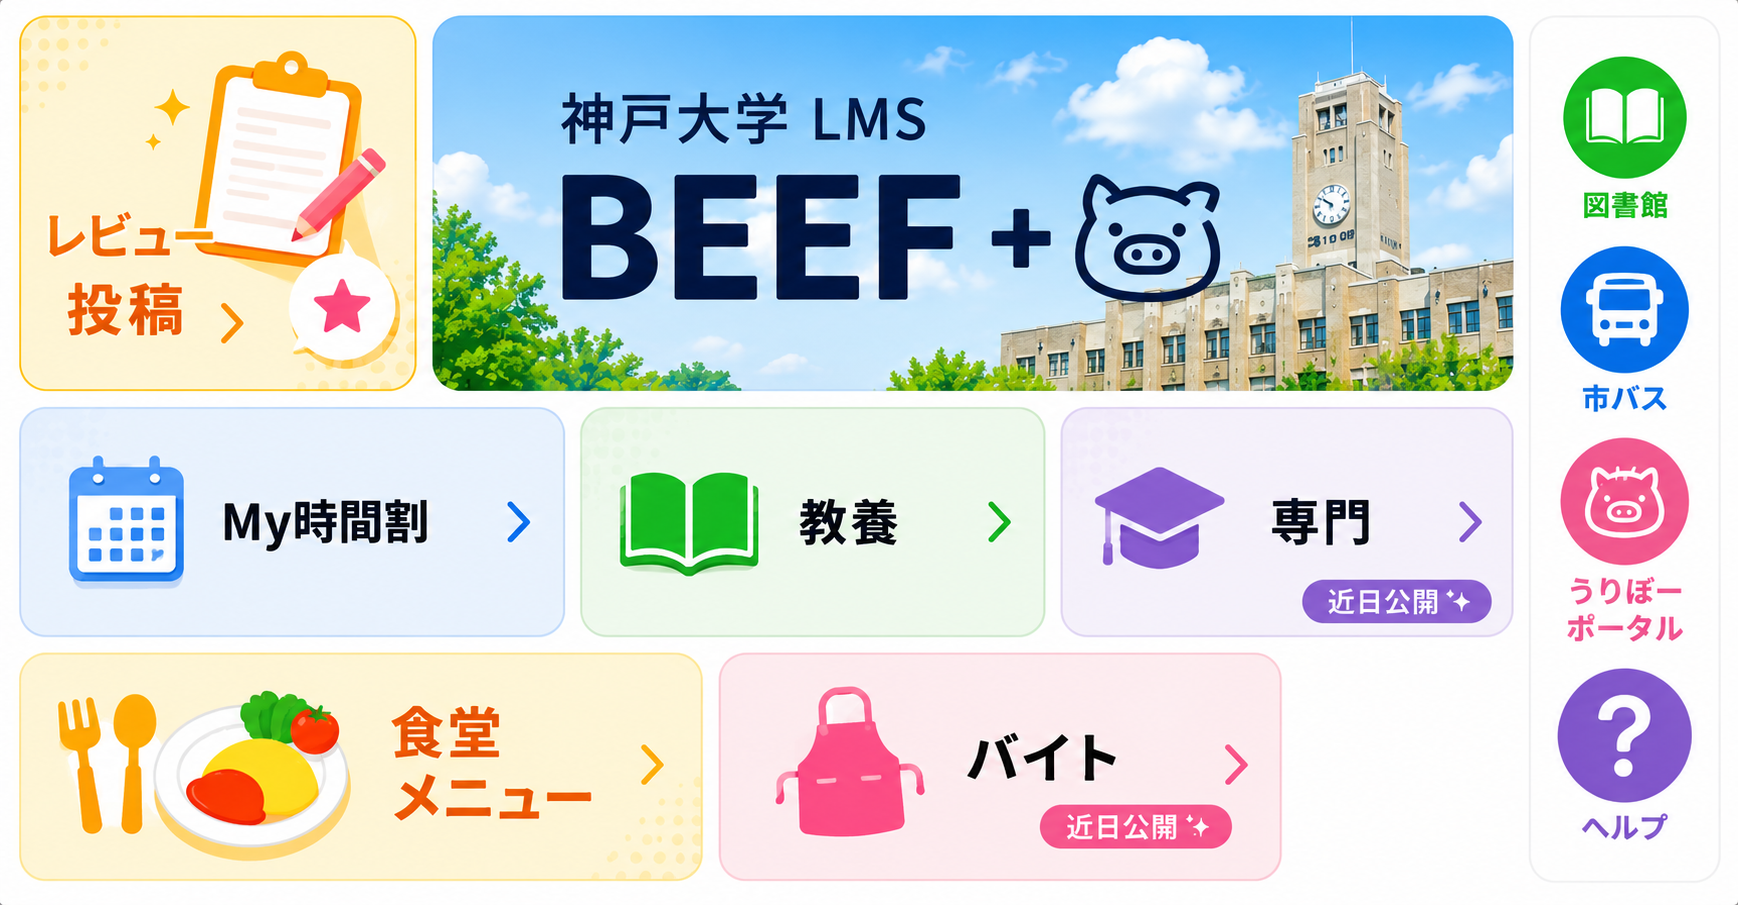
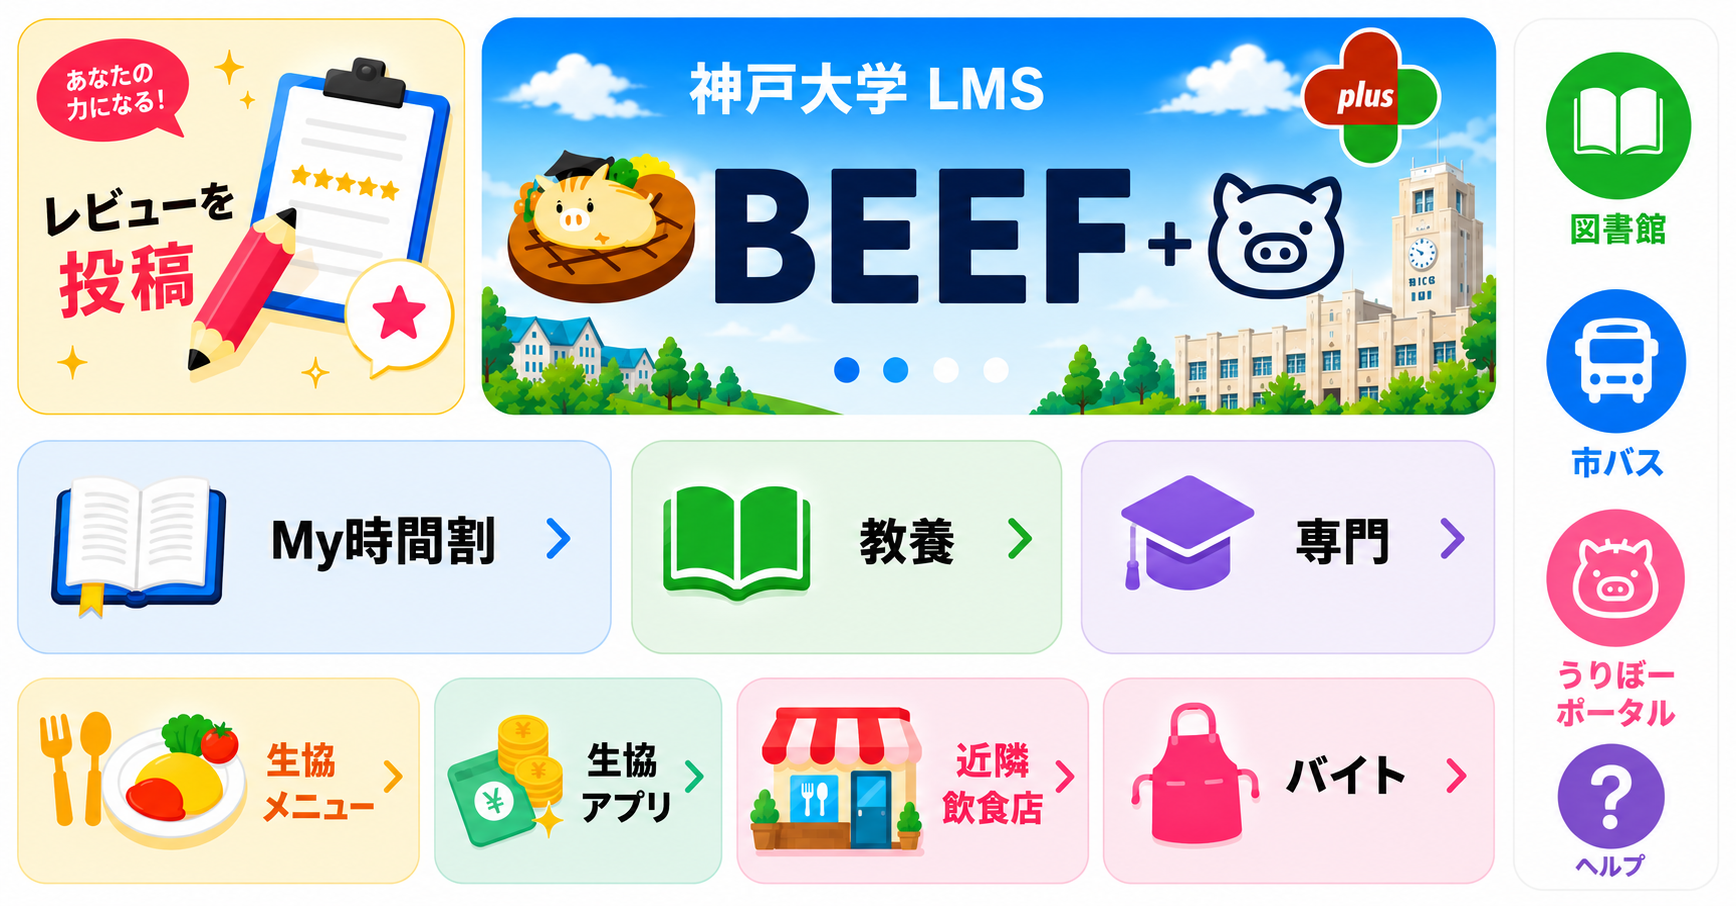
リッチメニューを7.14版デザインに更新し、生協メニューを4分割へ拡張
生協メニュー/生協アプリ/近隣飲食店/バイトの4ボタンに再編。生協アプリは既存の/coop中継ページへ、近隣飲食店は新規の準備中メッセージへリンクする。座標は新画像(1736x906)から実測し直した。

diff --git a/programing files/setup_richmenu.py b/programing files/setup_richmenu.py
@@ -57,21 +57,23 @@ from linebot.v3.messaging import (
 )
 
 # ── 画像サイズ（元画像の比率をそのまま使用）──────────────────────────────────
-W, H = 1738, 905
+W, H = 1736, 906
 
-# ── レイアウト座標（元画像 1738×905 基準、ピクセル実測値）──────────────────────
-SIDE_X  = 1514   # 右サイドバー左端（x=1514 で白帯開始）
-ROW2_Y  = 399    # Row1/2 境界（y=391-406 白帯の中心）
-ROW3_Y  = 645    # Row2/3 境界（y=638-651 白帯の中心）
-REV_W   = 424    # レビュー投稿 右端（x=418-431 白帯の中心）
-COL2_X  = 518    # My時間割/教養 境界（Row2 輝度谷 x=507-530 の中心）
-COL3_X  = 1000   # 教養/専門 境界（Row2 輝度谷 x=988-1011 の中心）
-COL3B_X = 757    # 食堂/バイト 境界（SIDE_X // 2）
+# ── レイアウト座標（元画像 1736×906 基準、リッチメニュー(7.14).png ピクセル実測値）──
+SIDE_X  = 1514   # 右サイドバー左端
+ROW2_Y  = 427    # Row1/2 境界
+ROW3_Y  = 665    # Row2/3 境界
+REV_W   = 472    # レビュー投稿 右端
+COL2_X  = 610    # My時間割/教養 境界
+COL3_X  = 1092   # 教養/専門 境界
+R3C1_X  = 426    # 生協メニュー/生協アプリ 境界（Row3）
+R3C2_X  = 736    # 生協アプリ/近隣飲食店 境界（Row3）
+R3C3_X  = 1091   # 近隣飲食店/バイト 境界（Row3）
 
-# サイドバー行区切り（x=1626 の色変化から実測）
-SY1 = 185   # 図書館 / 市バス 境界
-SY2 = 381   # 市バス / うりぼーポータル 境界
-SY3 = 578   # うりぼーポータル / ヘルプ 境界
+# サイドバー行区切り
+SY1 = 245   # 図書館 / 市バス 境界
+SY2 = 480   # 市バス / うりぼーポータル 境界
+SY3 = 730   # うりぼーポータル / ヘルプ 境界
 
 
 def _timetable_action():
@@ -116,13 +118,23 @@ AREAS = [
     },
     # ── Row 3 ────────────────────────────────────────────────────
     {
-        "label": "食堂",
-        "x": 0, "y": ROW3_Y, "w": COL3B_X, "h": H - ROW3_Y,
-        "action": URIAction(label="食堂メニュー", uri="https://west2-univ.jp/sp/kobe-univ.php"),
+        "label": "生協メニュー",
+        "x": 0, "y": ROW3_Y, "w": R3C1_X, "h": H - ROW3_Y,
+        "action": URIAction(label="生協メニュー", uri="https://west2-univ.jp/sp/kobe-univ.php"),
+    },
+    {
+        "label": "生協アプリ",
+        "x": R3C1_X, "y": ROW3_Y, "w": R3C2_X - R3C1_X, "h": H - ROW3_Y,
+        "action": URIAction(label="生協アプリ", uri=f"{REVIEW_FORM_URL}/coop"),
+    },
+    {
+        "label": "近隣飲食店",
+        "x": R3C2_X, "y": ROW3_Y, "w": R3C3_X - R3C2_X, "h": H - ROW3_Y,
+        "action": PostbackAction(label="近隣飲食店", data="近隣飲食店"),
     },
     {
         "label": "バイト",
-        "x": COL3B_X, "y": ROW3_Y, "w": SIDE_X - COL3B_X, "h": H - ROW3_Y,
+        "x": R3C3_X, "y": ROW3_Y, "w": SIDE_X - R3C3_X, "h": H - ROW3_Y,
         "action": PostbackAction(label="バイト", data="バイト"),
     },
     # ── 右サイドバー (4 段) ───────────────────────────────────────

diff --git a/line_bot/handler.py b/line_bot/handler.py
@@ -473,6 +473,9 @@ async def handle_message(text: str, user_id: str = "") -> list:
     if t in ["バイト", "アルバイト"]:
         return [TextMessage(text="🚧 バイト情報機能は現在準備中です。\nもうしばらくお待ちください！")]
 
+    if t in ["近隣飲食店", "近隣の飲食店"]:
+        return [TextMessage(text="🚧 近隣飲食店情報機能は現在準備中です。\nもうしばらくお待ちください！")]
+
     if t in ["ヘルプ", "help", "使い方", "？", "?"]:
         return [make_help_flex()]
 
